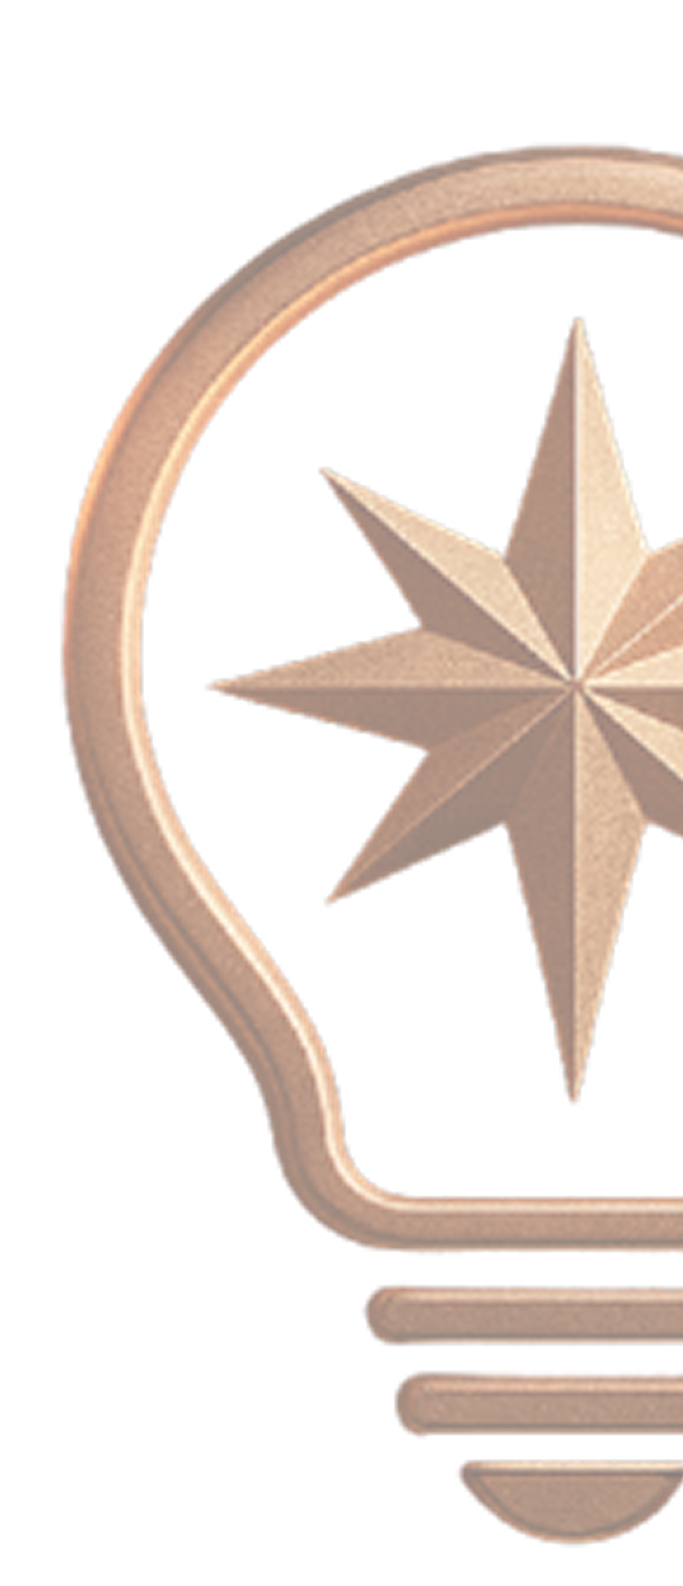
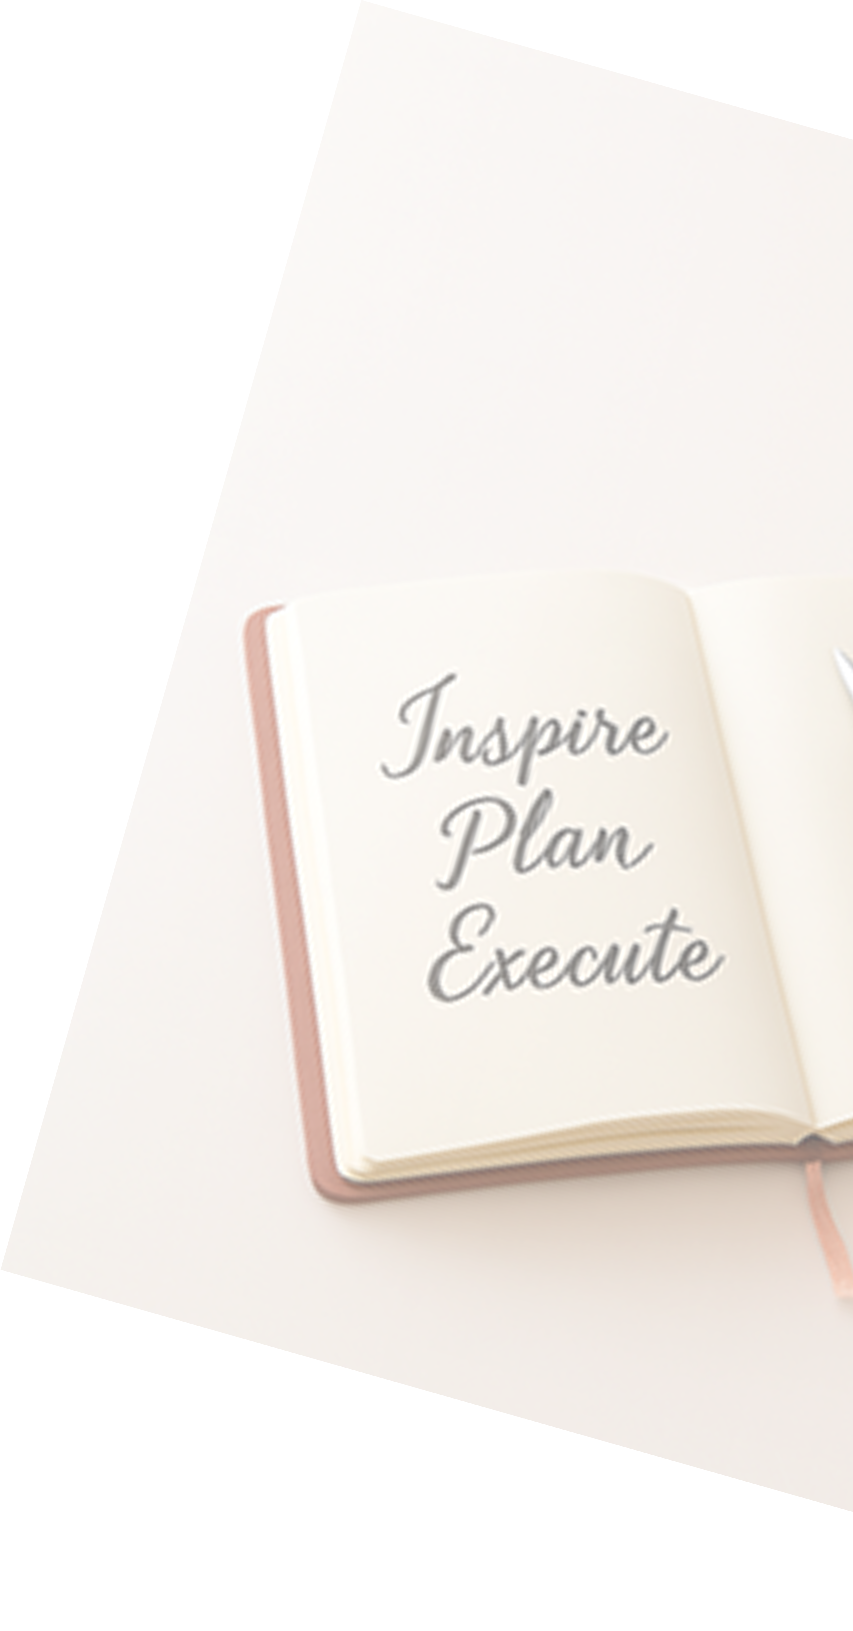
Left side and Right Side images changed

diff --git a/style.css b/style.css
@@ -165,7 +165,7 @@ a {
 	transform: translateY(-50%);
 	z-index: 0;
 	pointer-events: none;
-	opacity: 0.3;
+	opacity: 1;
 	max-width: 100vw;
 	overflow: hidden;
 }
@@ -227,9 +227,9 @@ a {
 .description {
 	font-size: 20px;
 	font-weight: 200;
-	margin: 24px auto 10px auto; /* верхний отступ — 24px */
+	margin: 24px auto 10px auto;
 	text-align: center;
-	max-width: 1014px;
+	max-width: 900px;
 }
 
 .secondary-description {
@@ -380,7 +380,7 @@ p {
 	.left-image img,
 	.right-image img {
 		width: 240px;
-		opacity: 0.35;
+		opacity: 1;
 	}
 }
 
@@ -389,7 +389,7 @@ p {
 	.left-image img,
 	.right-image img {
 		width: 200px;
-		opacity: 0.3;
+		opacity: 1;
 	}
 }
 
@@ -398,7 +398,7 @@ p {
 	.left-image img,
 	.right-image img {
 		width: 160px;
-		opacity: 0.25;
+		opacity: 1;
 	}
 }
 
@@ -407,7 +407,7 @@ p {
 	.left-image img,
 	.right-image img {
 		width: 120px;
-		opacity: 0.2;
+		opacity: 1;
 	}
 }
 
